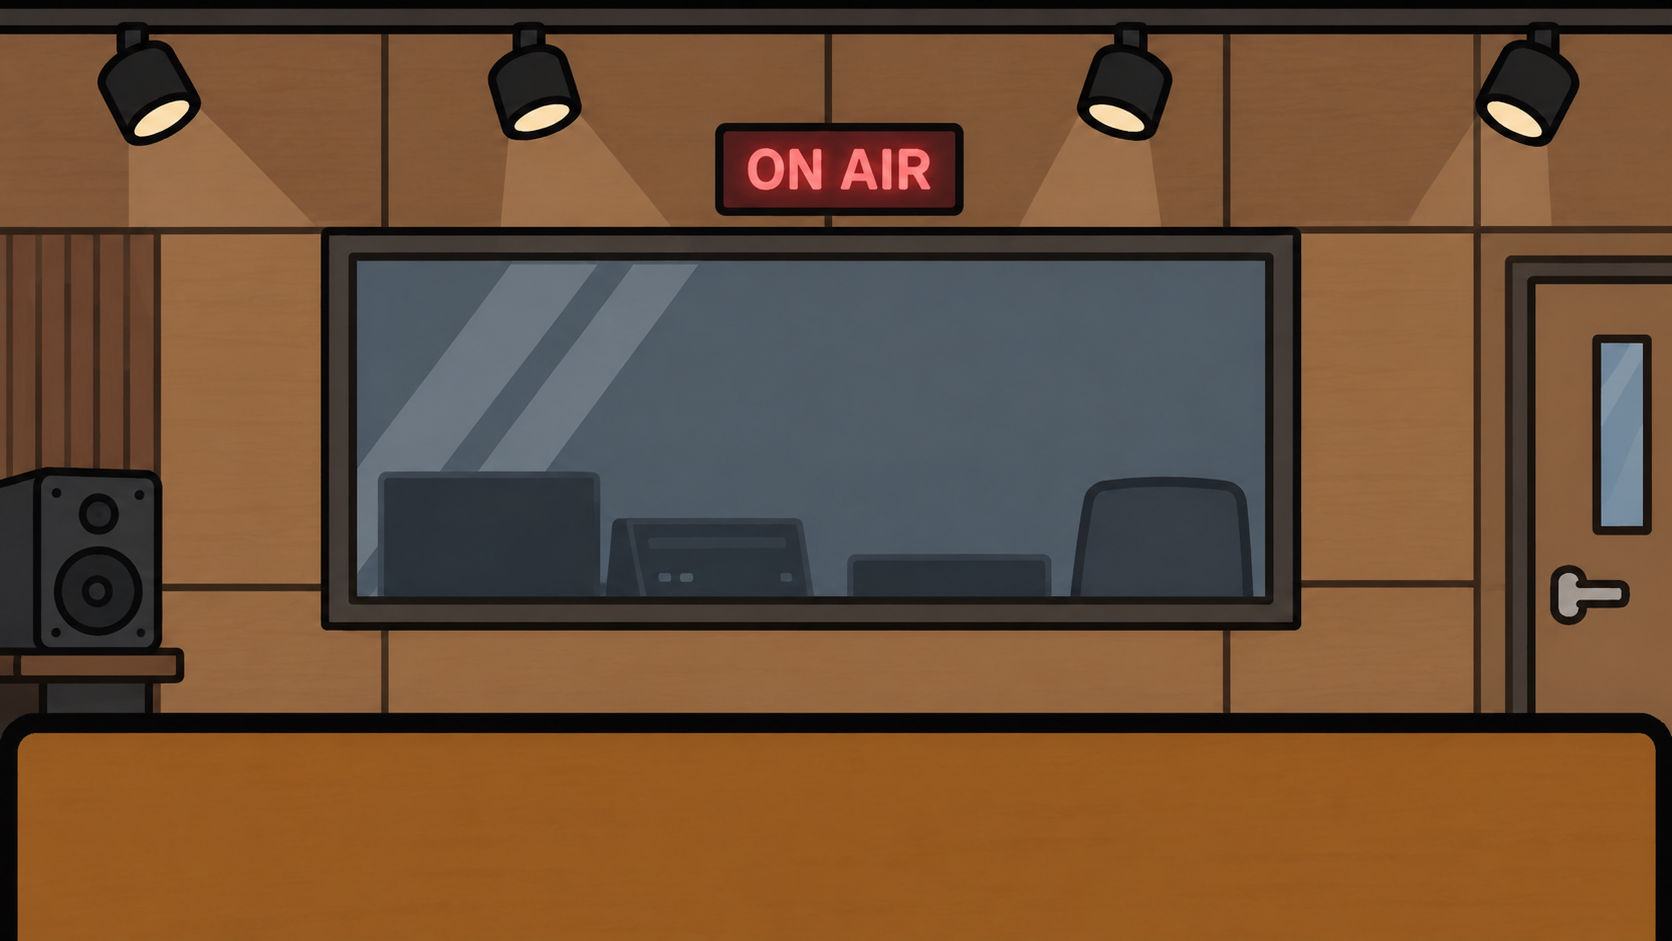
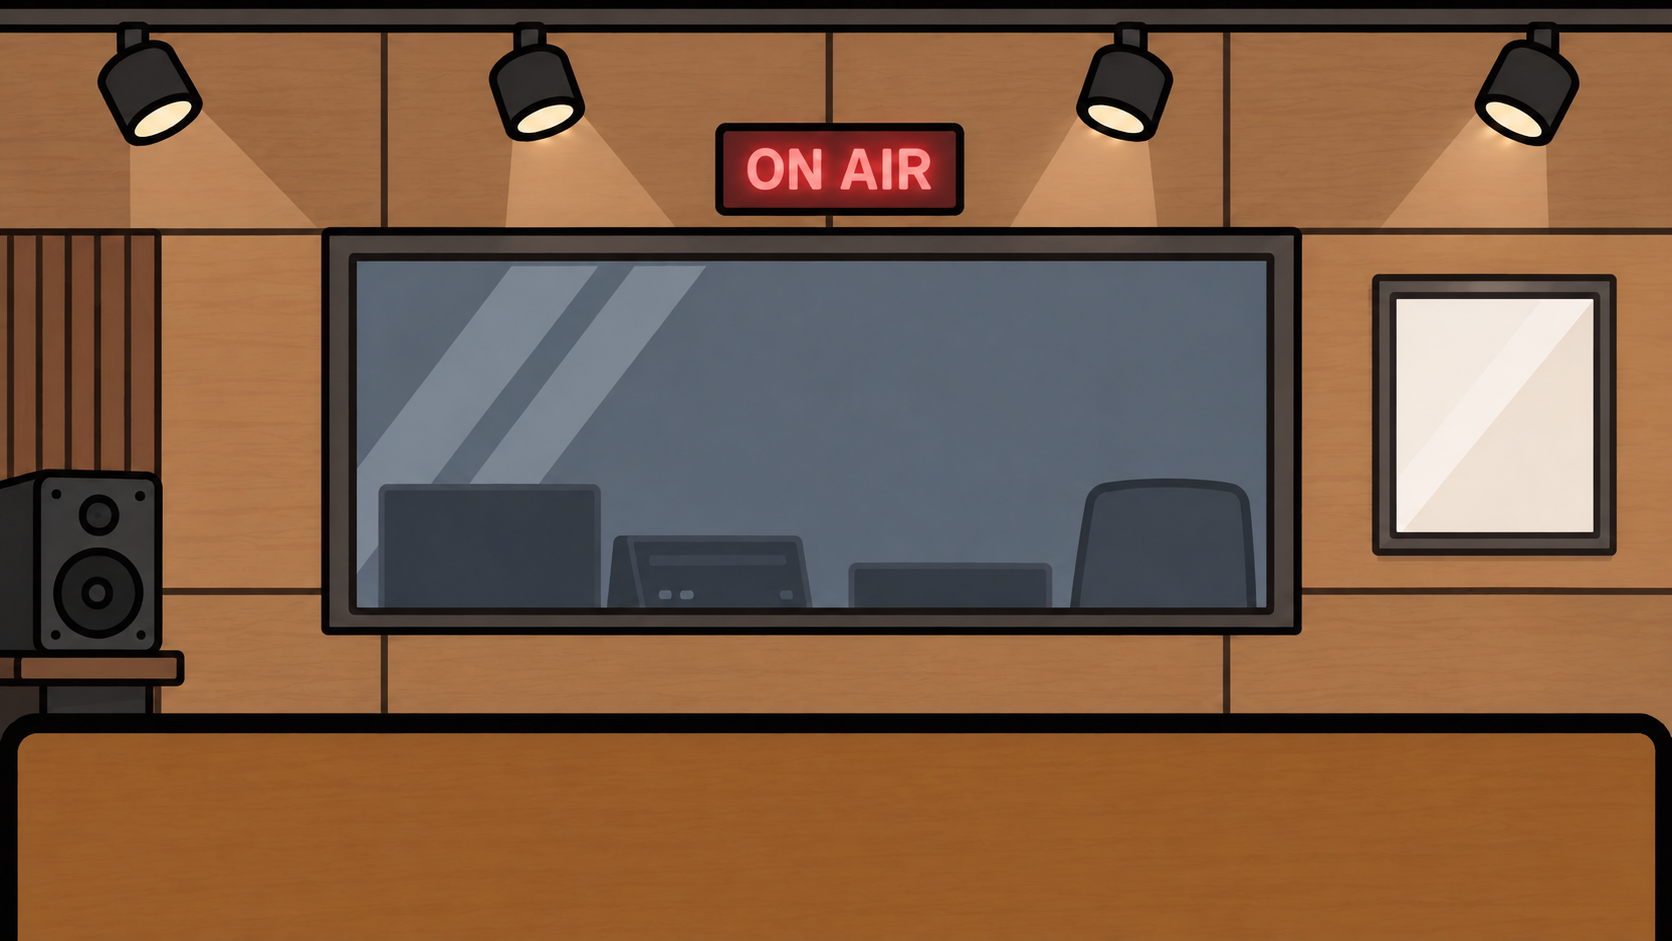
Hang a corner cover in the frame on the studio wall
- New slot for the corner cover. It's fitted inside the frame without
  cropping, with a thin mat around it and a faint sheen like the glass in
  the background's frame, and it sits behind the character and the desk.
- The frame's position is a setting under the slot, for a background
  whose frame is somewhere else.
- The default background is now the studio with the frame on the wall.

diff --git a/ABS Radio Maker/Services/FrameRenderer.swift b/ABS Radio Maker/Services/FrameRenderer.swift
@@ -20,6 +20,10 @@ final class FrameRenderer: @unchecked Sendable {
     let musicBackground: CGImage?
     let desk: Placed?
     private let poses: [LayerSlot: Placed]
+    /// The corner cover as it was given. It's fitted into the frame when drawn, because the frame can move.
+    private let cover: CGImage?
+    private let coverLock = NSLock()
+    private var composedCover: Placed?
     /// The bottom middle of the character, which it sways around.
     private let pivot: CGPoint
 
@@ -28,6 +32,7 @@ final class FrameRenderer: @unchecked Sendable {
         background = images[.background].flatMap { Self.filled($0, size: size, opaque: true) }
         musicBackground = images[.musicBackground].flatMap { Self.filled($0, size: size, opaque: true) }
         desk = images[.desk].flatMap { Self.placed($0, size: size) }
+        cover = images[.cover]
 
         var poses = [LayerSlot: Placed]()
         for slot in LayerSlot.allCases where slot.isCharacterPose {
@@ -68,6 +73,10 @@ final class FrameRenderer: @unchecked Sendable {
             context.restoreGState()
         }
 
+        if let cover = coverArt(settings: settings) {
+            draw(cover.image, in: cover.rect, context: context)
+        }
+
         if let character = character(for: pose.drawing) {
             drawCharacter(character, pose: pose, settings: settings, context: context)
         }
@@ -75,6 +84,54 @@ final class FrameRenderer: @unchecked Sendable {
         if let desk {
             draw(desk.image, in: desk.rect, context: context)
         }
+    }
+
+    /// The corner cover, fitted into the frame on the wall, behind glass. Nil without a cover. Made again only when the
+    /// frame changes size.
+    func coverArt(settings: StudioSettings) -> Placed? {
+        guard let cover else { return nil }
+        let rect = settings.coverFrame.rect(in: size).integral
+        guard rect.width >= 4, rect.height >= 4 else { return nil }
+        coverLock.lock()
+        defer { coverLock.unlock() }
+        if let composed = composedCover, composed.rect.size == rect.size {
+            let moved = Placed(image: composed.image, rect: rect)
+            composedCover = moved
+            return moved
+        }
+        guard let image = Self.framed(cover, size: rect.size) else { return nil }
+        let composed = Placed(image: image, rect: rect)
+        composedCover = composed
+        return composed
+    }
+
+    /// The cover fitted inside a frame of the given size with a thin mat around it, and a faint sheen across it like
+    /// the glass in the background's frame.
+    private static func framed(_ cover: CGImage, size: CGSize) -> CGImage? {
+        guard let context = makeContext(size: size) else { return nil }
+        context.interpolationQuality = .high
+        let mat = min(size.width, size.height) * 0.04
+        let room = CGRect(origin: .zero, size: size).insetBy(dx: mat, dy: mat)
+        let scale = min(room.width / CGFloat(cover.width), room.height / CGFloat(cover.height))
+        let fitted = CGSize(width: CGFloat(cover.width) * scale, height: CGFloat(cover.height) * scale)
+        let place = CGRect(x: room.midX - fitted.width / 2, y: room.midY - fitted.height / 2, width: fitted.width, height: fitted.height)
+        context.draw(cover, in: place)
+
+        // Two light bands rising to the right, kept to the cover.
+        context.clip(to: place)
+        context.setFillColor(CGColor(gray: 1, alpha: 0.10))
+        for (start, width) in [(0.18, 0.16), (0.42, 0.07)] {
+            let band = CGMutablePath()
+            let left = place.minX + place.width * start
+            band.move(to: CGPoint(x: left, y: place.minY))
+            band.addLine(to: CGPoint(x: left + place.width * width, y: place.minY))
+            band.addLine(to: CGPoint(x: left + place.width * (width + 0.55), y: place.maxY))
+            band.addLine(to: CGPoint(x: left + place.width * 0.55, y: place.maxY))
+            band.closeSubpath()
+            context.addPath(band)
+        }
+        context.fillPath()
+        return context.makeImage()
     }
 
     /// The character's drawing for a pose. Without a picture of its own, listening uses the eyes-closed drawing, and

diff --git a/ABS Radio Maker/Views/LayersPanel.swift b/ABS Radio Maker/Views/LayersPanel.swift
@@ -4,6 +4,7 @@ import UniformTypeIdentifiers
 /// Every picture the video is built from, each replaceable by dropping in a new one.
 struct LayersPanel: View {
     let library: LayerLibrary
+    @Binding var coverFrame: CoverFrame
 
     var body: some View {
         ScrollView {
@@ -19,6 +20,9 @@ struct LayersPanel: View {
                             .font(.headline)
                         ForEach(section.slots) { slot in
                             LayerRow(library: library, slot: slot)
+                            if slot == .cover {
+                                CoverFrameControls(frame: $coverFrame)
+                            }
                         }
                     }
                 }
@@ -137,5 +141,35 @@ private struct Checkerboard: View {
                 }
             }
         }
+    }
+}
+
+/// Lines the cover up with the frame, for a background whose frame is somewhere else.
+private struct CoverFrameControls: View {
+    @Binding var frame: CoverFrame
+    @State private var isOpen = false
+
+    var body: some View {
+        DisclosureGroup("액자 위치 맞추기", isExpanded: $isOpen) {
+            VStack(alignment: .leading, spacing: 8) {
+                Text("배경을 바꿔서 액자 자리가 달라졌을 때만 맞추면 돼요. 표지는 잘리지 않게 액자 안에 맞춰 들어가요.")
+                    .font(.caption)
+                    .foregroundStyle(.secondary)
+                    .fixedSize(horizontal: false, vertical: true)
+                SettingSlider(title: "가로 위치", value: $frame.x, range: 0...0.95, format: percent)
+                SettingSlider(title: "세로 위치", value: $frame.y, range: 0...0.95, format: percent)
+                SettingSlider(title: "너비", value: $frame.width, range: 0.03...0.6, format: percent)
+                SettingSlider(title: "높이", value: $frame.height, range: 0.03...0.9, format: percent)
+                Button("기본 배경의 액자에 맞추기") { frame = .studioWall }
+                    .controlSize(.small)
+                    .disabled(frame == .studioWall)
+            }
+            .padding(.top, 6)
+        }
+        .padding(.horizontal, 8)
+    }
+
+    private func percent(_ value: Double) -> String {
+        String(format: "%.1f%%", value * 100)
     }
 }

diff --git a/ABS Radio Maker/Models/StudioSettings.swift b/ABS Radio Maker/Models/StudioSettings.swift
@@ -1,3 +1,4 @@
+import CoreGraphics
 import Foundation
 
 /// How often the character shuts its eyes to enjoy a song.
@@ -35,6 +36,22 @@ enum ListeningEyes: String, Codable, CaseIterable, Identifiable, Sendable {
     }
 }
 
+/// Where the corner cover goes: the inside of the frame on the studio wall, as fractions of the screen, measured from
+/// the top left. The cover is fitted inside without cropping.
+struct CoverFrame: Codable, Equatable, Sendable {
+    var x: Double
+    var y: Double
+    var width: Double
+    var height: Double
+
+    /// The frame on the right-hand wall of the default studio background.
+    static let studioWall = CoverFrame(x: 0.8349, y: 0.3167, width: 0.1178, height: 0.2487)
+
+    func rect(in size: CGSize) -> CGRect {
+        CGRect(x: x * size.width, y: y * size.height, width: width * size.width, height: height * size.height)
+    }
+}
+
 /// How the character sits in the scene and how lively it is. Saved between launches.
 struct StudioSettings: Codable, Equatable, Sendable {
     /// Moves the character sideways, as a fraction of the screen width. Positive is to the right.
@@ -49,6 +66,7 @@ struct StudioSettings: Codable, Equatable, Sendable {
     var mouthSensitivity = 0.5
     var listeningEyes = ListeningEyes.sometimes
     var framesPerSecond = 30
+    var coverFrame = CoverFrame.studioWall
 
     static let frameRateChoices = [24, 30]
 
@@ -65,6 +83,7 @@ struct StudioSettings: Codable, Equatable, Sendable {
         mouthSensitivity = try container.decodeIfPresent(Double.self, forKey: .mouthSensitivity) ?? defaults.mouthSensitivity
         listeningEyes = (try? container.decodeIfPresent(ListeningEyes.self, forKey: .listeningEyes)) ?? defaults.listeningEyes
         framesPerSecond = try container.decodeIfPresent(Int.self, forKey: .framesPerSecond) ?? defaults.framesPerSecond
+        coverFrame = (try? container.decodeIfPresent(CoverFrame.self, forKey: .coverFrame)) ?? defaults.coverFrame
     }
 
     private static let key = "studioSettings"

diff --git a/ABS Radio Maker/Models/LayerSlot.swift b/ABS Radio Maker/Models/LayerSlot.swift
@@ -12,6 +12,7 @@ enum LayerSlot: String, CaseIterable, Identifiable, Codable, Sendable {
     case blink
     case listening
     case musicBackground
+    case cover
 
     var id: String { rawValue }
 
@@ -25,6 +26,7 @@ enum LayerSlot: String, CaseIterable, Identifiable, Codable, Sendable {
         case .blink: "눈 감음 (깜빡임)"
         case .listening: "노래 들을 때"
         case .musicBackground: "노래 나올 때 배경"
+        case .cover: "코너 표지"
         }
     }
 
@@ -38,6 +40,7 @@ enum LayerSlot: String, CaseIterable, Identifiable, Codable, Sendable {
         case .blink: "눈을 깜빡일 때, 노래를 들으며 눈 감을 때"
         case .listening: "비워 두면 눈 감음 그림을 써요"
         case .musicBackground: "비워 두면 기본 배경을 그대로 써요"
+        case .cover: "배경의 액자 안에 들어가요"
         }
     }
 
@@ -50,7 +53,7 @@ enum LayerSlot: String, CaseIterable, Identifiable, Codable, Sendable {
         case .mouthHalf: "default_character_mouth_half"
         case .mouthOpen: "default_character_mouth_open"
         case .blink: "default_character_blink"
-        case .listening, .musicBackground: nil
+        case .listening, .musicBackground, .cover: nil
         }
     }
 
@@ -58,13 +61,14 @@ enum LayerSlot: String, CaseIterable, Identifiable, Codable, Sendable {
     var isCharacterPose: Bool {
         switch self {
         case .character, .mouthHalf, .mouthOpen, .blink, .listening: true
-        case .background, .desk, .musicBackground: false
+        case .background, .desk, .musicBackground, .cover: false
         }
     }
 
     static let sections: [(title: String, slots: [LayerSlot])] = [
         ("기본 레이어", [.background, .character, .desk]),
         ("캐릭터 표정", [.mouthHalf, .mouthOpen, .blink, .listening]),
+        ("코너 표지", [.cover]),
         ("노래 구간", [.musicBackground]),
     ]
 }

diff --git a/ABS Radio Maker/Views/SceneView.swift b/ABS Radio Maker/Views/SceneView.swift
@@ -24,10 +24,12 @@ final class SceneNSView: NSView {
     private let canvas = CALayer()
     private let backgroundLayer = CALayer()
     private let musicBackgroundLayer = CALayer()
+    private let coverLayer = CALayer()
     private let characterLayer = CALayer()
     private let deskLayer = CALayer()
     private weak var renderer: FrameRenderer?
     private var shownCharacter: CGImage?
+    private var shownCover: CGImage?
 
     override init(frame: NSRect) {
         super.init(frame: frame)
@@ -39,7 +41,7 @@ final class SceneNSView: NSView {
         canvas.isGeometryFlipped = true
         canvas.masksToBounds = true
         canvas.backgroundColor = CGColor(gray: 0.12, alpha: 1)
-        for sublayer in [backgroundLayer, musicBackgroundLayer, characterLayer, deskLayer] {
+        for sublayer in [backgroundLayer, musicBackgroundLayer, coverLayer, characterLayer, deskLayer] {
             sublayer.contentsGravity = .resize
             sublayer.actions = ["contents": NSNull(), "bounds": NSNull(), "position": NSNull(), "transform": NSNull(), "opacity": NSNull()]
             canvas.addSublayer(sublayer)
@@ -84,6 +86,17 @@ final class SceneNSView: NSView {
             }
         }
         musicBackgroundLayer.opacity = renderer.musicBackground == nil ? 0 : Float(pose.listening)
+
+        if let cover = renderer.coverArt(settings: settings) {
+            if shownCover !== cover.image {
+                coverLayer.contents = cover.image
+                shownCover = cover.image
+            }
+            coverLayer.frame = cover.rect
+        } else if shownCover != nil {
+            coverLayer.contents = nil
+            shownCover = nil
+        }
 
         guard let character = renderer.character(for: pose.drawing) else {
             characterLayer.contents = nil

diff --git a/ABS Radio Maker/Views/ContentView.swift b/ABS Radio Maker/Views/ContentView.swift
@@ -29,7 +29,7 @@ struct ContentView: View {
                 Divider()
 
                 switch tab {
-                case .layers: LayersPanel(library: studio.layers)
+                case .layers: LayersPanel(library: studio.layers, coverFrame: $studio.settings.coverFrame)
                 case .character: CharacterPanel(studio: studio)
                 case .audio: AudioPanel(studio: studio)
                 }

diff --git a/README.md b/README.md
@@ -18,6 +18,7 @@
 - **노래 구간:** macOS에 들어 있는 소리 분류 기능으로 노래가 나오는 곳을 찾아, 그동안은 리듬에 맞춰 몸을 흔들며 들어요. 눈을 감는 빈도는 설정에서 고를 수 있어요. BGM을 깔고 말하는 부분은 말하기로 잡아요.
 - **타임라인:** 확대·축소하고 스크롤해서 녹음 전체를 훑어볼 수 있어요. 말하기·노래 띠의 경계를 끌어 옮기거나, 구간을 선택해 노래나 말하기로 바꿔서 직접 고칠 수 있어요.
 - **음원 편집:** 앞뒤 자르기, 유튜브 기준(-14 LUFS)으로 소리 크기 맞추기, 피크 리미터, 저음 웅웅거림 줄이기, 긴 침묵 줄이기, 페이드 인·아웃.
+- **코너 표지:** 정사각형 코너 표지를 넣으면 배경 벽의 액자 안에 잘리지 않게 맞춰 들어가요. 배경을 바꾸면 액자 위치도 맞출 수 있어요.
 - **그림 바꾸기:** 모든 레이어와 표정 그림을 끌어다 놓기로 바꿀 수 있어요. 바꾼 그림은 앱 안에 저장돼요.
 - **자동 업데이트:** 새 버전이 나오면 알아서 받아요.
 
@@ -60,6 +61,7 @@
 | 눈 감음 | 깜빡일 때, 노래를 들으며 눈 감을 때 |
 | 노래 들을 때 | 선택. 노래를 들으며 눈 감을 때만 다른 표정을 쓰고 싶을 때 넣어요. 비워 두면 눈 감음 그림을 써요 |
 | 책상과 마이크 | 캐릭터 앞에 놓이는 그림 |
+| 코너 표지 | 정사각형 표지. 배경의 액자 안에 들어가요 |
 | 노래 나올 때 배경 | 비워 두면 기본 배경을 그대로 써요 |
 
 ## 설치
